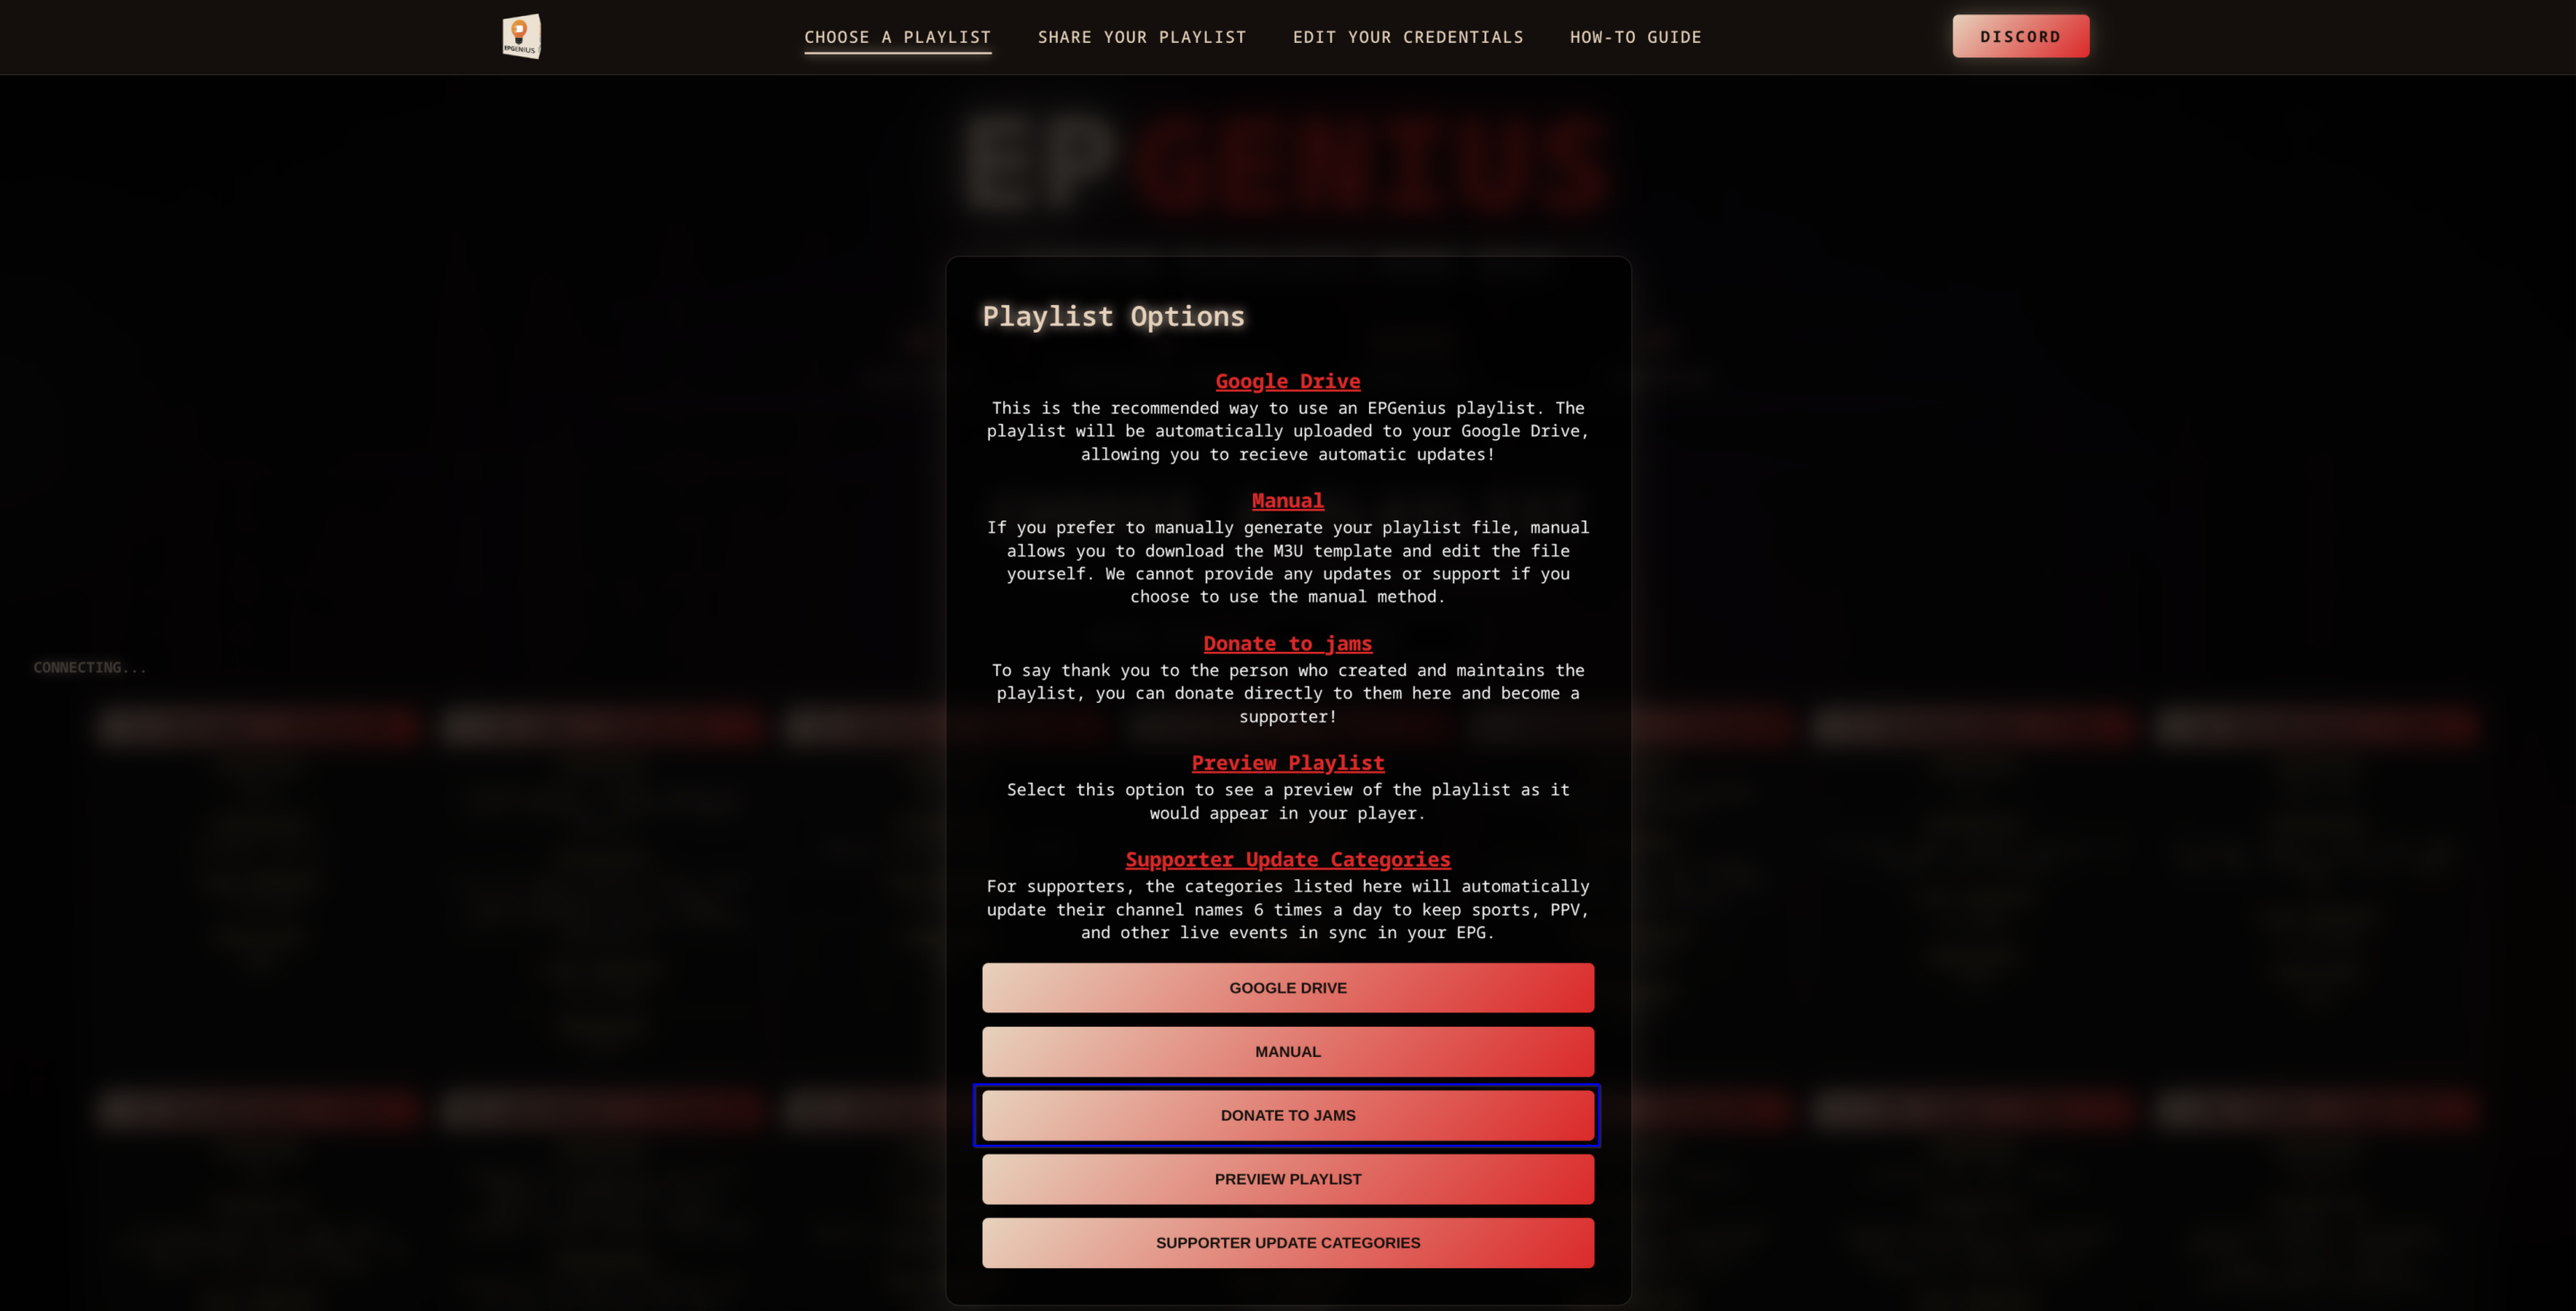
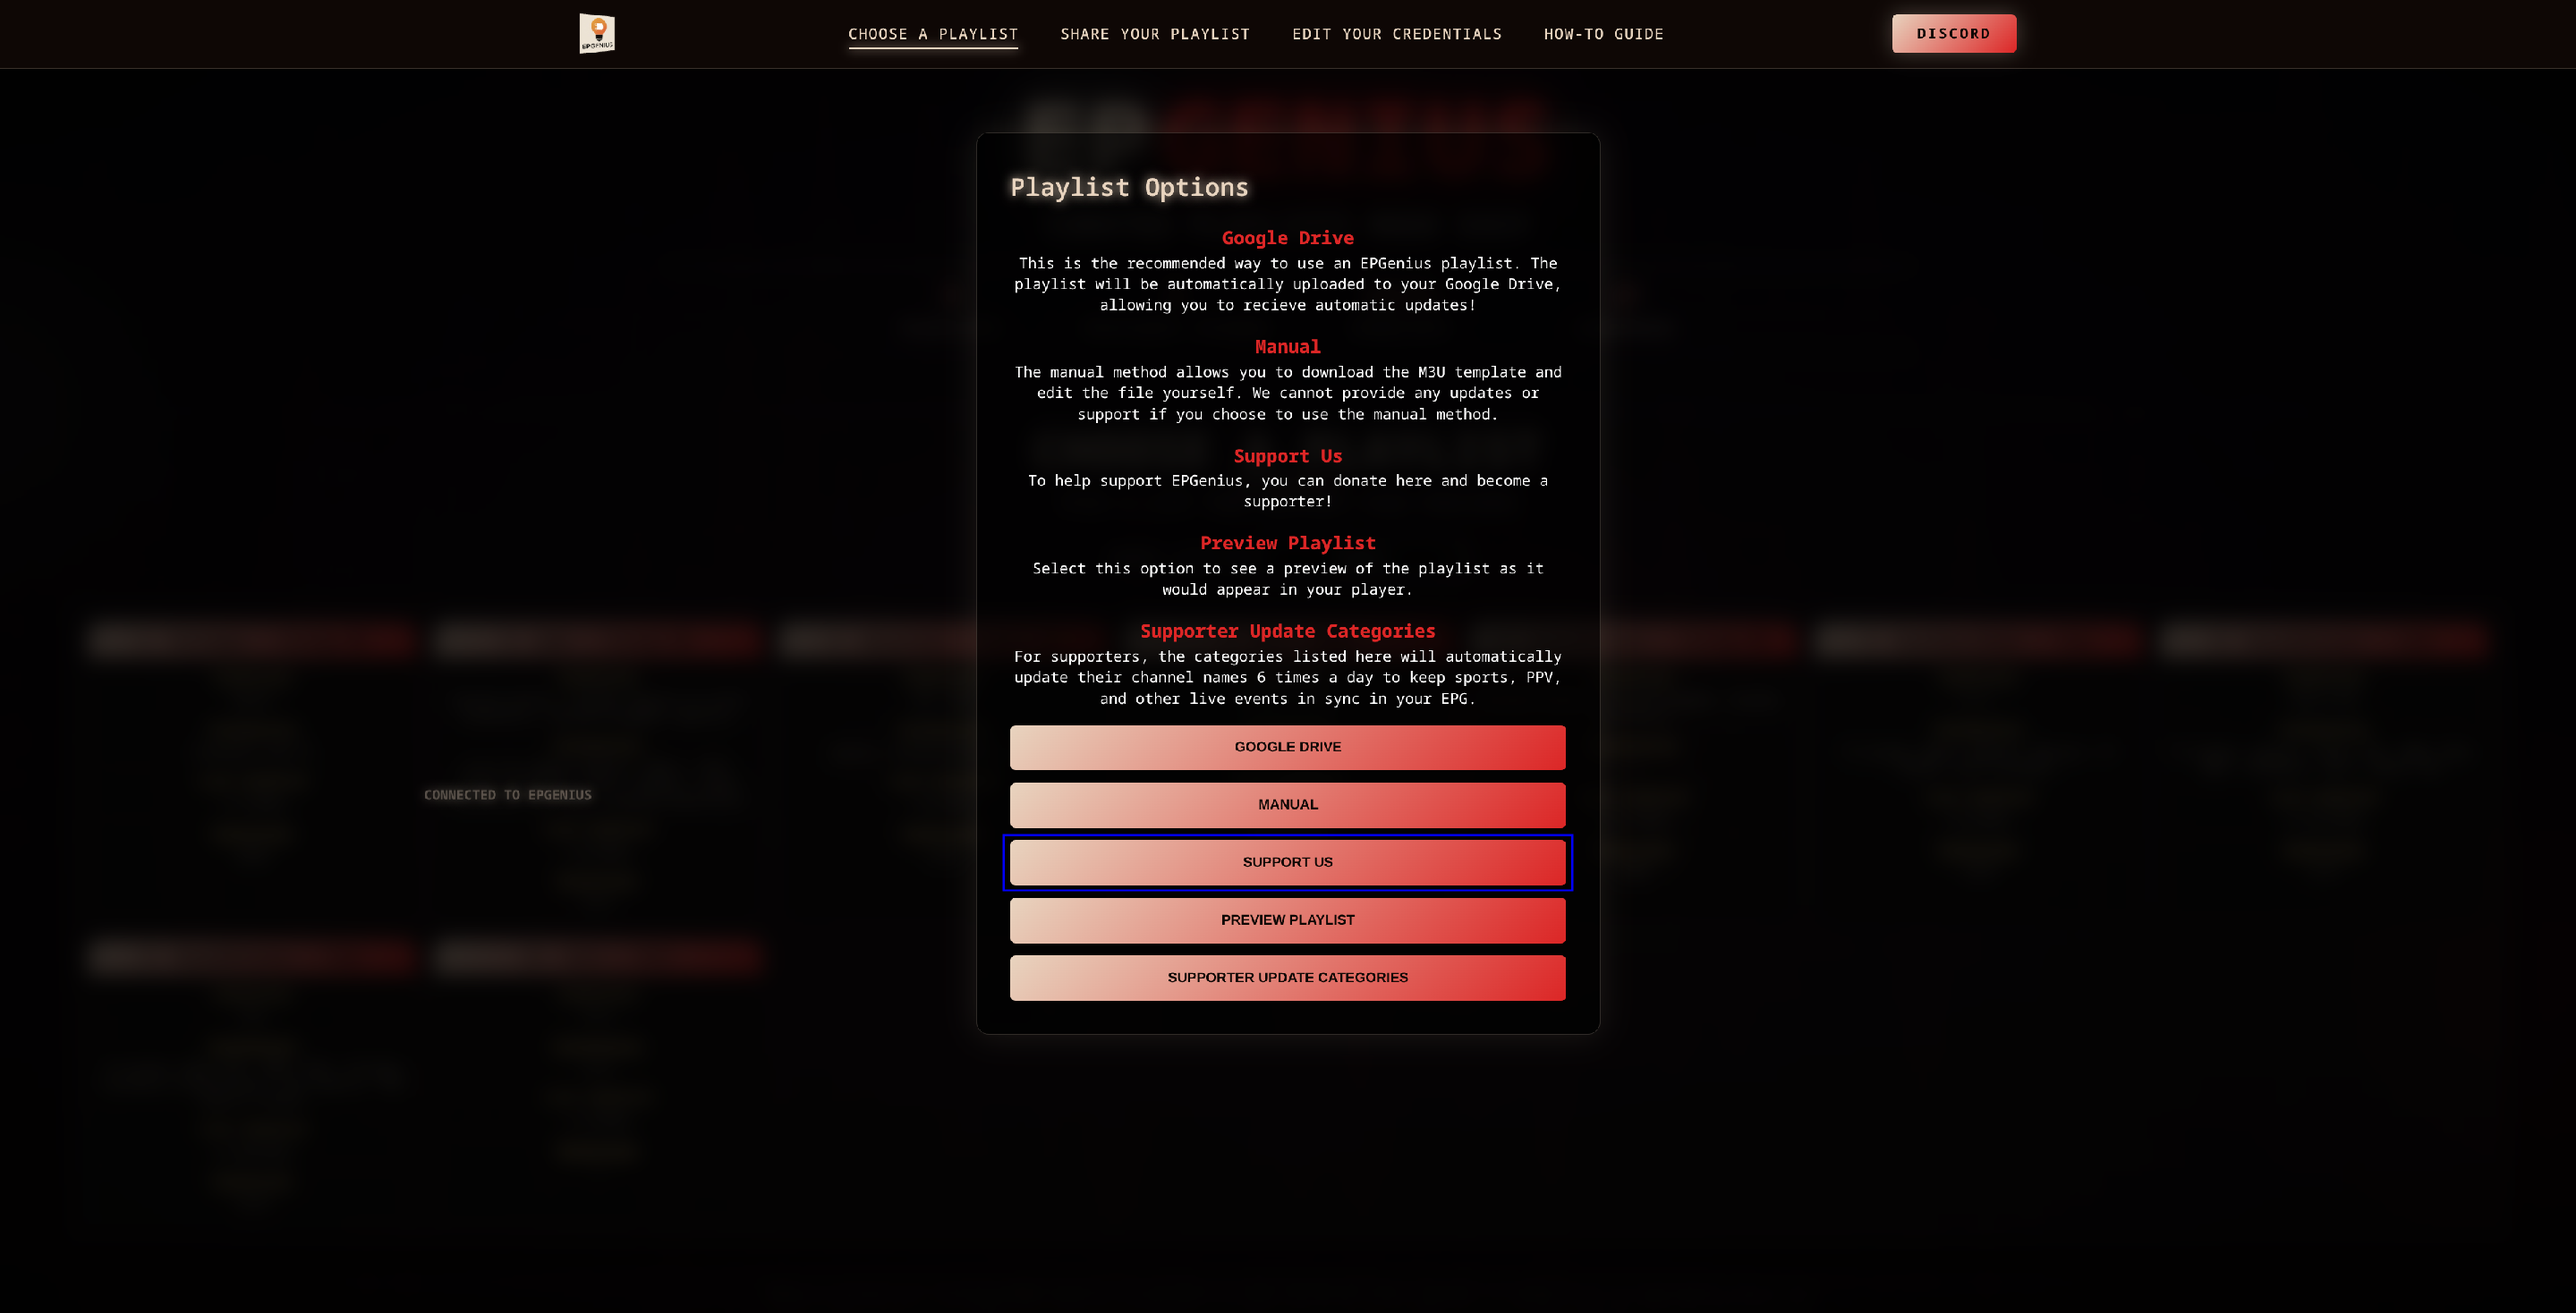
update how-to images again, clean up how-to a bit due to new donate modal

diff --git a/static/index.html b/static/index.html
@@ -573,7 +573,7 @@ https://epgenius.org/
         <div class="howto-container">
             <!-- Introduction -->
             <div class="howto-intro">
-                <div class="warning-box" style="margin-top: 2rem; text-align: left;">
+                <div class="warning-box" style="text-align: left;">
                     <strong>Important Prerequisites:</strong>
                     <p>You must have your own credentials for the service your chosen playlist uses. EPGenius does not provide credentials.</p>
                 </div>
@@ -670,12 +670,12 @@ https://epgenius.org/
             <div class="howto-step">
                 <div class="step-header">
                     <div class="step-number-badge">4</div>
-                    <h3 class="step-title">Sign In to Google</h3>
+                    <h3 class="step-title">Sign in to Google</h3>
                 </div>
-                <p>Log into your Google Account when prompted. This allows EPGenius to save your customized playlist to your personal Google Drive so that you automatically receive new playlist updates.</p>
+                <p>Sign in to your Google Account when prompted. This allows EPGenius to save your customized playlist to your personal Google Drive so that you automatically receive new playlist updates.</p>
                 
                 <div class="step-images">
-                    <img src="5.png" alt="Google login" class="step-thumb" onclick="openHowtoModal('5.png')"/>
+                    <img src="4.png" alt="Google login" class="step-thumb" onclick="openHowtoModal('5.png')"/>
                 </div>
             </div>
 
@@ -690,7 +690,7 @@ https://epgenius.org/
                     <li><strong>Playlist URL</strong> - Your new M3U playlist link</li>
                     <li><strong>EPG URL</strong> - Your EPG link</li>
                 </ul>
-                <p>Use these links when adding a new playlist to the player of your choice.</p>
+                <p>Use these links when adding a new M3U playlist to the player of your choice. You must use the M3U option within your player, not the Xtream option.</p>
                 
                 <div class="warning-box">
                     <strong>Critical:</strong>
